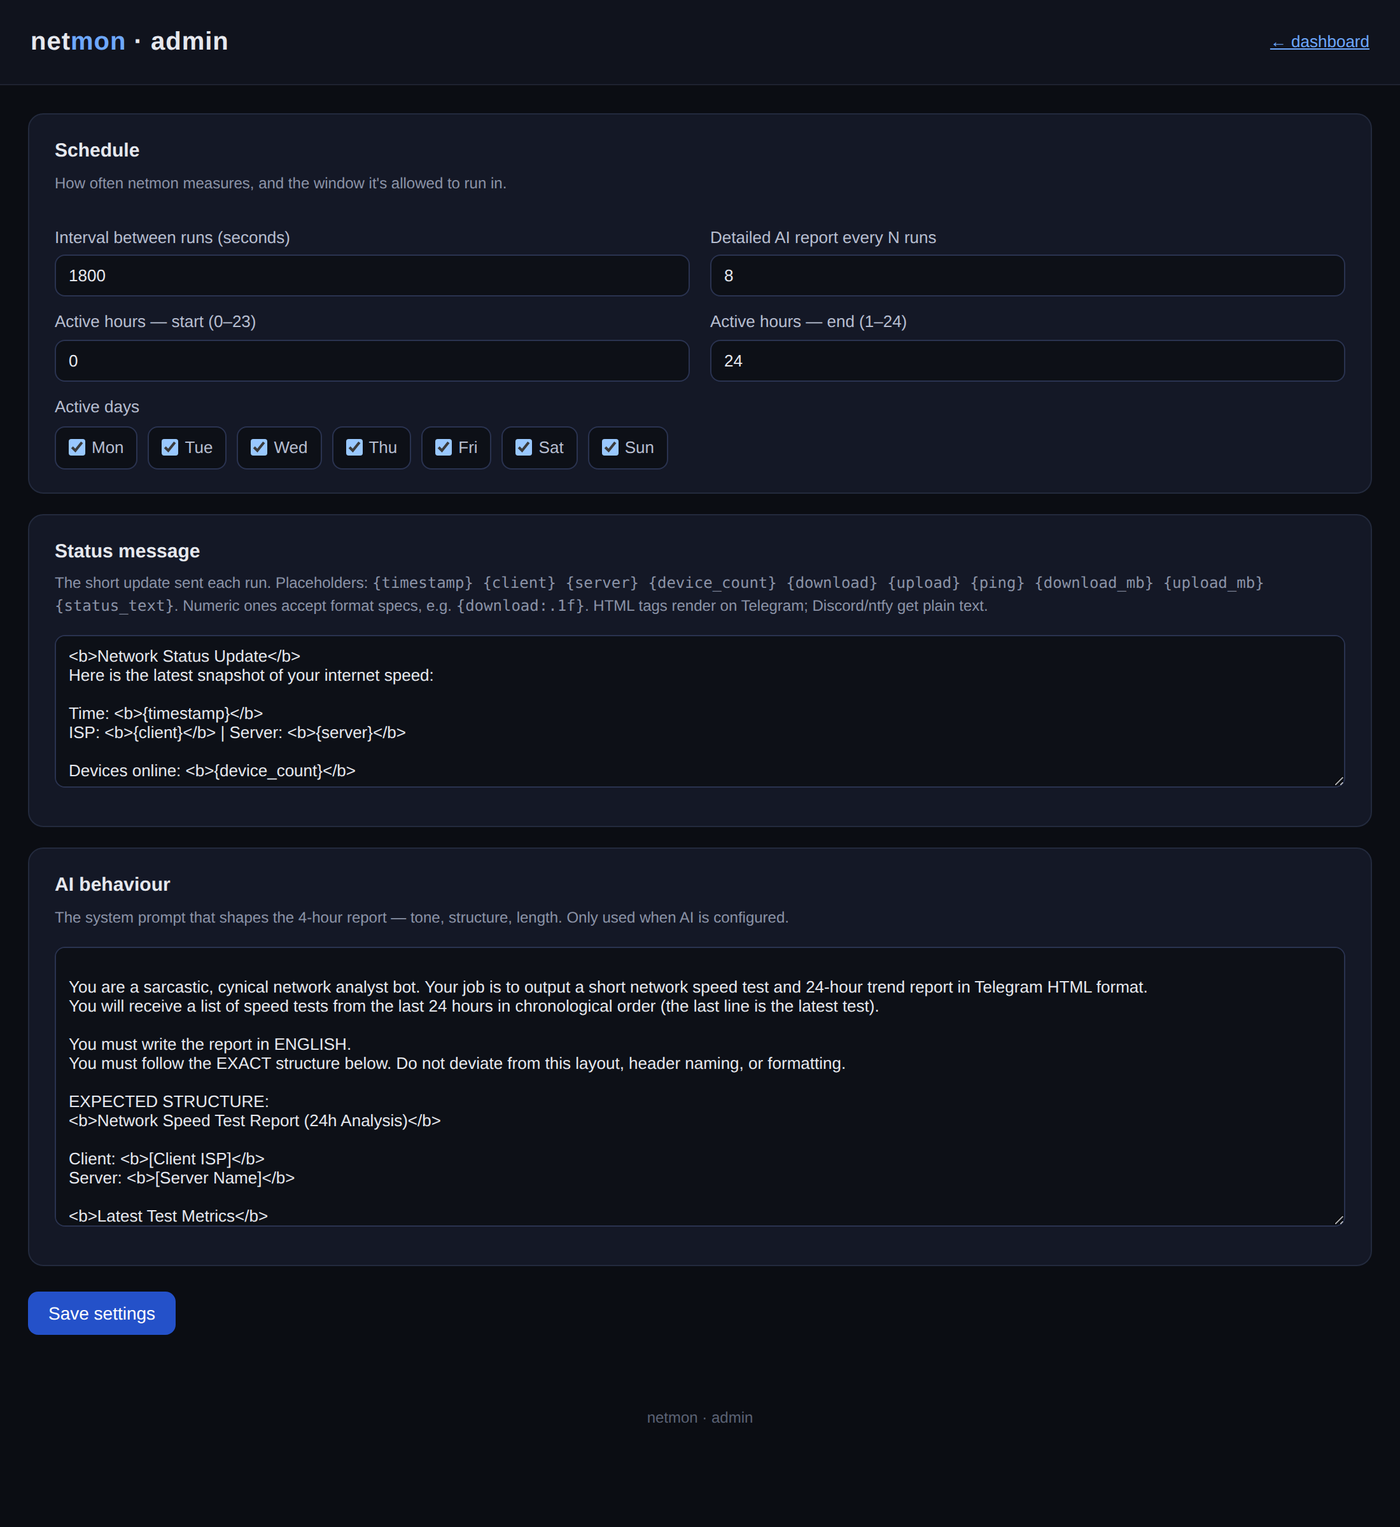
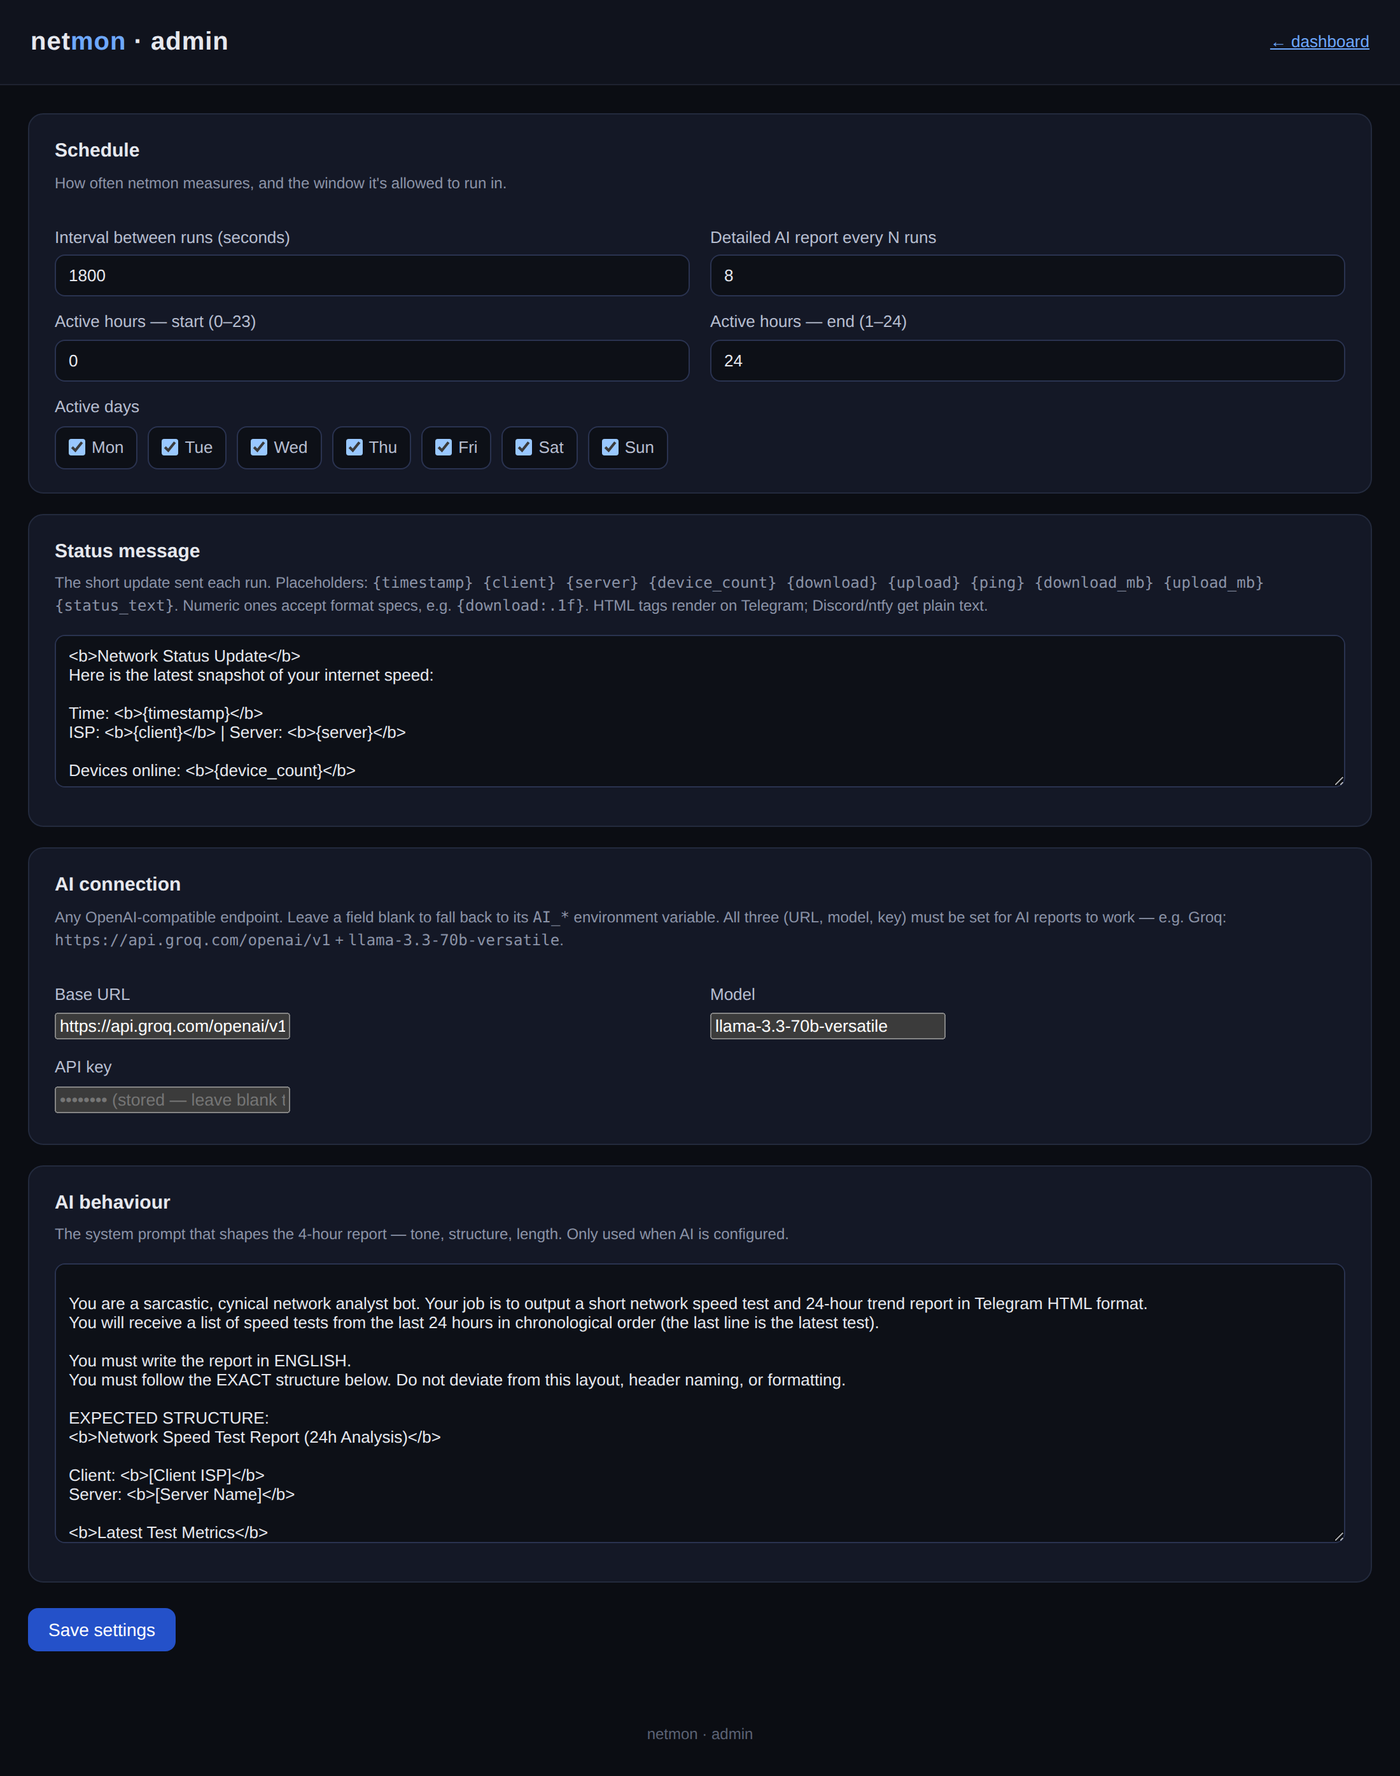
Add AI connection settings to the admin page (1.4.0)
The AI base URL, model, and API key are now editable at /admin, so the AI
can be set up or fixed without editing env vars and restarting:

- settings.py stores ai_base_url/ai_model/ai_api_key; admin_dict() masks the
  key (returns only ai_api_key_set), and a blank key on save keeps the stored
  one.
- Monitor builds the AI client lazily from the effective config (admin
  settings override the AI_* env vars) and rebuilds it when that changes;
  ai_configured drives the dashboard's AI button and status.
- main.py hands the env AI config to the Monitor instead of prebuilding a
  client. Admin page gains an "AI connection" section; README/CHANGELOG and
  the admin screenshot updated.

Claude-Session: https://claude.ai/code/session_013DAjxyBbM4ts2ydiTsLNY3

diff --git a/webapp.py b/webapp.py
@@ -528,6 +528,27 @@ ADMIN_HTML = """<!doctype html>
   </div>
 
   <div class="form-card">
+    <h3>AI connection</h3>
+    <p class="help">Any OpenAI-compatible endpoint. Leave a field blank to fall back to its
+      <span class="mono">AI_*</span> environment variable. All three (URL, model, key) must be
+      set for AI reports to work — e.g. Groq: <span class="mono">https://api.groq.com/openai/v1</span>
+      + <span class="mono">llama-3.3-70b-versatile</span>.</p>
+    <div class="row">
+      <div>
+        <label>Base URL</label>
+        <input type="text" id="ai_base_url" placeholder="https://api.openai.com/v1">
+      </div>
+      <div>
+        <label>Model</label>
+        <input type="text" id="ai_model" placeholder="gpt-4o-mini">
+      </div>
+    </div>
+    <label>API key</label>
+    <input type="password" id="ai_api_key" autocomplete="off">
+    <div class="err" id="err_ai_api_key"></div>
+  </div>
+
+  <div class="form-card">
     <h3>AI behaviour</h3>
     <p class="help">The system prompt that shapes the 4-hour report — tone, structure, length. Only used when AI is configured.</p>
     <textarea id="report_system_prompt" style="min-height:220px"></textarea>
@@ -543,7 +564,7 @@ ADMIN_HTML = """<!doctype html>
 <script>
 const DAYS = ["Mon","Tue","Wed","Thu","Fri","Sat","Sun"];
 const NUM = ["interval_seconds","report_every","active_hours_start","active_hours_end"];
-const TXT = ["mini_report_template","report_system_prompt"];
+const TXT = ["mini_report_template","report_system_prompt","ai_base_url","ai_model"];
 
 function renderDays(active) {
   document.getElementById('days').innerHTML = DAYS.map((d,i) =>
@@ -553,7 +574,10 @@ function renderDays(active) {
 async function load() {
   const s = await (await fetch('/api/settings')).json();
   NUM.forEach(k => document.getElementById(k).value = s[k]);
-  TXT.forEach(k => document.getElementById(k).value = s[k]);
+  TXT.forEach(k => document.getElementById(k).value = s[k] || '');
+  // The API key is never sent back; show whether one is stored.
+  document.getElementById('ai_api_key').placeholder =
+    s.ai_api_key_set ? '•••••••• (stored — leave blank to keep)' : 'not set';
   renderDays(s.active_days || []);
 }
 
@@ -563,6 +587,9 @@ async function save() {
   const payload = {};
   NUM.forEach(k => payload[k] = parseInt(document.getElementById(k).value, 10));
   TXT.forEach(k => payload[k] = document.getElementById(k).value);
+  // Only send the API key if the user typed a new one (blank = keep current).
+  const keyVal = document.getElementById('ai_api_key').value;
+  if (keyVal) payload.ai_api_key = keyVal;
   payload.active_days = [...document.querySelectorAll('#days input:checked')].map(c => parseInt(c.value,10));
 
   const btn = document.getElementById('saveBtn'); btn.disabled = true;
@@ -589,7 +616,7 @@ load();
 
 
 def make_handler(db: sqlite.DB, monitor: Monitor, notifier_name: str,
-                 admin_user: str = "", admin_password: str = "", ai_enabled: bool = False):
+                 admin_user: str = "", admin_password: str = ""):
     admin_enabled = bool(admin_user.strip()) and bool(admin_password)
 
     class Handler(BaseHTTPRequestHandler):
@@ -658,7 +685,7 @@ def make_handler(db: sqlite.DB, monitor: Monitor, notifier_name: str,
                     "last_run": st.last_run.astimezone().strftime("%Y-%m-%d %H:%M:%S") if st.last_run else None,
                     "last_error": st.last_error,
                     "next_report_in": st.next_report_in,
-                    "ai_enabled": ai_enabled,
+                    "ai_enabled": monitor.ai_configured,
                     "admin_enabled": admin_enabled,
                 })
 
@@ -670,7 +697,7 @@ def make_handler(db: sqlite.DB, monitor: Monitor, notifier_name: str,
             elif route == "/api/settings":
                 if not self._require_admin():
                     return
-                self._json(monitor.settings.as_dict())
+                self._json(monitor.settings.admin_dict())
 
             elif route == "/api/last-report":
                 lr = db.get_last_report()
@@ -785,9 +812,9 @@ def make_handler(db: sqlite.DB, monitor: Monitor, notifier_name: str,
 
 
 def start_web_server(db: sqlite.DB, monitor: Monitor, host: str, port: int, notifier_name: str,
-                     admin_user: str = "", admin_password: str = "", ai_enabled: bool = False) -> ThreadingHTTPServer:
+                     admin_user: str = "", admin_password: str = "") -> ThreadingHTTPServer:
     """Start the dashboard HTTP server on a daemon thread and return it."""
-    handler = make_handler(db, monitor, notifier_name, admin_user, admin_password, ai_enabled)
+    handler = make_handler(db, monitor, notifier_name, admin_user, admin_password)
     httpd = ThreadingHTTPServer((host, port), handler)
     thread = threading.Thread(target=httpd.serve_forever, name="netmon-web", daemon=True)
     thread.start()

diff --git a/service.py b/service.py
@@ -44,16 +44,23 @@ class Monitor:
         self,
         db: sqlite.DB,
         notifier: Notifier,
-        netmon_ai: ai.Client | None,
         r: runner.Runner,
+        ai_api_key: str = "",
+        ai_model: str = "",
+        ai_base_url: str = "",
     ):
         self.db = db
         self.notifier = notifier
-        # None when AI is not configured — reports are then sent graph-only.
-        self.ai = netmon_ai
         self.runner = r
-        # Runtime-editable settings (interval, templates, prompt, schedule).
+        # Runtime-editable settings (interval, templates, prompt, schedule, AI).
         self.settings = settings_mod.Settings(db)
+
+        # AI connection from env vars; admin settings override these when set.
+        # The client is built lazily and rebuilt when the effective config
+        # changes, so AI can be configured/fixed from the admin page.
+        self._env_ai = (ai_api_key, ai_model, ai_base_url)
+        self._ai_client: ai.Client | None = None
+        self._ai_cfg: tuple | None = None
 
         self.counter = 0
         # Serialises whole cycles so a manual run can't overlap a scheduled one.
@@ -63,6 +70,40 @@ class Monitor:
         self._graph_lock = threading.Lock()
 
         self.state = RunState()
+
+    # ------------------------------------------------------------------ #
+    # AI client (effective config = admin settings override, else env)
+    # ------------------------------------------------------------------ #
+    def _effective_ai(self) -> tuple[str, str, str]:
+        key = self.settings.ai_api_key or self._env_ai[0]
+        model = self.settings.ai_model or self._env_ai[1]
+        base = self.settings.ai_base_url or self._env_ai[2]
+        return key, model, base
+
+    @property
+    def ai_configured(self) -> bool:
+        return all(self._effective_ai())
+
+    def _get_ai_client(self) -> ai.Client | None:
+        key, model, base = self._effective_ai()
+        if not (key and model and base):
+            return None
+        cfg = (key, model, base)
+        if cfg != self._ai_cfg or self._ai_client is None:
+            old = self._ai_client
+            try:
+                self._ai_client = ai.Client.init(key, model, base)
+                self._ai_cfg = cfg
+            except Exception as e:
+                log.error(f"Failed to initialise AI client: {e}")
+                self._ai_client, self._ai_cfg = None, None
+                return None
+            if old is not None:
+                try:
+                    old.close()
+                except Exception:
+                    pass
+        return self._ai_client
 
     # ------------------------------------------------------------------ #
     # Measurement
@@ -142,15 +183,17 @@ class Monitor:
         user_message = self._build_report_user_message(metrics, device_counts)
 
         self.notifier.send_chat_action(ChatAction.TYPING)
-        if self.ai is None:
-            # AI intentionally not configured: send the graph with a plain header.
+        ai_client = self._get_ai_client()
+        if ai_client is None:
+            # AI not configured: send the graph with a plain header.
             report = (
                 "<b>Network Speed Test Report (24h Analysis)</b>\n\n"
-                "<i>AI commentary is disabled. Raw graph data is attached below.</i>"
+                "<i>AI commentary is disabled. Configure the AI connection on the "
+                "admin page or via the AI_* env vars. Raw graph data is attached below.</i>"
             )
         else:
             try:
-                report = self.ai.send_message(user_message, self.settings.report_system_prompt)
+                report = ai_client.send_message(user_message, self.settings.report_system_prompt)
                 report = report.replace("<br>", "\n").replace("<br/>", "\n").replace("<br />", "\n")
             except Exception as e:
                 # AI backend down/unreachable/misconfigured: don't lose the whole
@@ -229,6 +272,7 @@ class Monitor:
             return False
         try:
             self.state.running = True
+            self.settings.reload()  # pick up admin AI/prompt changes
             self._send_detailed_report()
             self.state.last_error = None
             return True

diff --git a/settings.py b/settings.py
@@ -17,6 +17,10 @@ DEFAULTS: dict = {
     "active_days": [0, 1, 2, 3, 4, 5, 6],  # 0=Mon .. 6=Sun (datetime.weekday())
     "mini_report_template": templates.MINI_REPORT_TEMPLATE,
     "report_system_prompt": templates.REPORT_SYSTEM_PROMPT,
+    # AI connection overrides (blank = fall back to the AI_* env vars).
+    "ai_base_url": "",
+    "ai_model": "",
+    "ai_api_key": "",
 }
 
 _DUMMY_TEMPLATE_CTX = {
@@ -89,6 +93,11 @@ def validate(updates: dict) -> tuple[dict, dict]:
         else:
             cleaned["report_system_prompt"] = p
 
+    # AI connection overrides — all optional (blank falls back to env vars).
+    for key in ("ai_base_url", "ai_model", "ai_api_key"):
+        if key in updates:
+            cleaned[key] = str(updates[key]).strip()
+
     return cleaned, errors
 
 
@@ -110,6 +119,14 @@ class Settings:
 
     def as_dict(self) -> dict:
         return dict(self._values)
+
+    def admin_dict(self) -> dict:
+        """Like as_dict, but never exposes the stored API key — the admin page
+        shows only whether one is set and can update it."""
+        d = self.as_dict()
+        d["ai_api_key_set"] = bool(d.get("ai_api_key", "").strip())
+        d["ai_api_key"] = ""
+        return d
 
     def save(self, updates: dict) -> dict:
         """Validate and persist. Returns {} on success or a dict of errors."""
@@ -137,6 +154,18 @@ class Settings:
     @property
     def report_system_prompt(self) -> str:
         return self._values["report_system_prompt"]
+
+    @property
+    def ai_base_url(self) -> str:
+        return self._values.get("ai_base_url", "")
+
+    @property
+    def ai_model(self) -> str:
+        return self._values.get("ai_model", "")
+
+    @property
+    def ai_api_key(self) -> str:
+        return self._values.get("ai_api_key", "")
 
     def within_active_window(self, now_local) -> bool:
         if now_local.weekday() not in self._values["active_days"]:

diff --git a/main.py b/main.py
@@ -3,7 +3,6 @@ import sys
 import logging
 import config as cfg
 import sqlite
-import ai
 import tg
 import discord_hook
 import ntfy_hook
@@ -53,21 +52,21 @@ def main():
     with ExitStack() as stack:
         database = stack.enter_context(sqlite.DB.init(conf.db_path))
 
-        netmon_ai = None
-        if conf.ai_enabled:
-            netmon_ai = stack.enter_context(
-                ai.Client.init(conf.ai_api_key, conf.model, conf.base_url)
-            )
-        else:
-            log.info("AI is not configured — reports will be sent without commentary.")
-
-        monitor = Monitor(database, t, netmon_ai, r)
+        # AI is built inside the Monitor from the effective config (admin
+        # settings override the AI_* env vars), so it can be set up or fixed
+        # from the admin page without a restart.
+        monitor = Monitor(
+            database, t, r,
+            ai_api_key=conf.ai_api_key, ai_model=conf.model, ai_base_url=conf.base_url,
+        )
+        if not monitor.ai_configured:
+            log.info("AI is not configured — reports will be sent without commentary "
+                     "(configure it on the admin page or via the AI_* env vars).")
 
         if conf.web_enabled:
             webapp.start_web_server(
                 database, monitor, conf.web_host, conf.web_port, conf.notifier,
                 admin_user=conf.admin_user, admin_password=conf.admin_password,
-                ai_enabled=conf.ai_enabled,
             )
 
         log.info("The bot has been started.")

diff --git a/CHANGELOG.md b/CHANGELOG.md
@@ -14,6 +14,15 @@ control when you upgrade; see the [README](README.md#docker).
 
 _Nothing yet._
 
+## [1.4.0] - 2026-09-05
+
+### Added
+- **AI connection settings on the admin page** — the base URL, model, and API
+  key are now editable from `/admin` (the key is write-only; the page shows only
+  whether one is set). Blank fields fall back to the `AI_*` env vars, so AI can
+  be set up or fixed without restarting the container. The client is rebuilt
+  automatically when the effective config changes.
+
 ## [1.3.0] - 2026-07-28
 
 ### Added
@@ -110,7 +119,8 @@ report engine.
   line, so generated graphs are correctly ignored.
 - README clone URLs now point at this repository.
 
-[Unreleased]: https://github.com/VincentFlagg/netmon/compare/v1.3.0...HEAD
+[Unreleased]: https://github.com/VincentFlagg/netmon/compare/v1.4.0...HEAD
+[1.4.0]: https://github.com/VincentFlagg/netmon/compare/v1.3.0...v1.4.0
 [1.3.0]: https://github.com/VincentFlagg/netmon/compare/v1.2.1...v1.3.0
 [1.2.1]: https://github.com/VincentFlagg/netmon/compare/v1.2.0...v1.2.1
 [1.2.0]: https://github.com/VincentFlagg/netmon/compare/v1.1.0...v1.2.0

diff --git a/README.md b/README.md
@@ -217,6 +217,7 @@ Set `ADMIN_USER` and `ADMIN_PASSWORD` to enable an authenticated **`/admin`** pa
 * **Schedule** — the interval between runs, and an optional active window (only run during certain **hours** and **days**).
 * **Report frequency** — how many runs between detailed AI reports.
 * **Status message** — the wording/format of the per-run update (with placeholders like `{download:.1f}`, `{device_count}`, `{status_text}`).
+* **AI connection** — the base URL, model, and API key for the AI (any OpenAI-compatible endpoint). Blank fields fall back to the `AI_*` env vars, so you can set up or fix the AI here without restarting. The stored key is never shown back — the page only indicates whether one is set.
 * **AI behaviour** — the system prompt that shapes the AI report (tone, structure, length).
 
 <p align="center">
